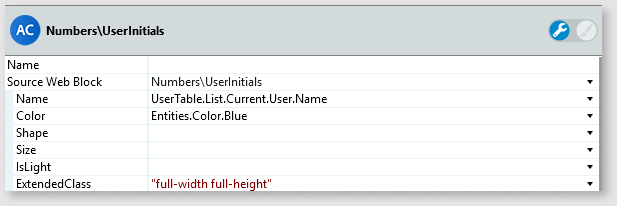
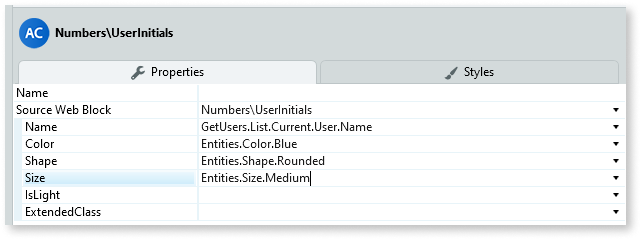
UI Pattern Updates

Changed region(s): [[0.0, 0.0, 1.0, 1.0], [0.893, 0.0874, 0.9238, 0.2039]]

diff --git a/src/develop/ui/patterns/web/numbers/userinitials.md b/src/develop/ui/patterns/web/numbers/userinitials.md
@@ -11,36 +11,66 @@ You can use the User Initials UI Pattern to display a user’s initials or their
 
 **How to use the User Initials UI Pattern**
 
+The User Initials UI Pattern usually displays dynamic information. In most cases, prior to using this pattern, you will need [to retrieve or update the Data](../../../../../develop/data/intro.md) that contains the information you want to display onscreen. You do this by using an [Action](../../../../../develop/logic/action-web.md). 
+
+The following example demonstrates how you can display the initials of the registered users on your platform.
+
 1. In Service Studio, in the Toolbox, search for `User Initials`. 
 
     The User Initials widget is displayed.
 
     ![](<images/userinitials-image-11.png>)
 
-1. From the Toolbox, drag the User Initials widget onto your application’s screen.
-   
-  
-1. On the **Properties** tab, set the relevant properties, for example, color, size, and shape. 
+1. From the Toolbox, drag the User Initials widget into the Main Content area of your application's screen.
 
-    ![](<images/userinitials-image-10.png>)
+     ![](<images/userinitials-image-12.png>)
+
+1. From the Element tree, create a Preparation action by right-clicking on your screen, and from the drop-down, select **Add Preparation**.
     
- 
-After following these steps and publishing the module, you can test the pattern in your app.
+    This Preparation action executes logic that fetches the data before the screen is displayed.
+
+     ![](<images/userinitials-image-13.png>)
+
+1. Select the **Data** tab, and from the Entities tree, navigate to the **User** entity and drag it onto the Preparation action.
+
+    ![](<images/userinitials-image-14.png>)
+
+    This creates an [aggregate](https://success.outsystems.com/Documentation/11/Reference/OutSystems_Language/Data/Handling_Data/Queries/Aggregate) that retrieves all of the users on your platform.
+       
+1. To reopen your screen, select the **Interface** tab, and double-click on your screen.
+
+1. Select the User Initials widget, and on the **Properties** tab, from the **Name** drop-down, select **Expression Editor**.
+
+1. In the Expression Editor, enter the following expression and click **Done**.
+
+    ``GetUsers.List.Current.User.Name``
+
+    Note: You can also add the expression by navigating through the Expression Editor's **Scope** tree and double-clicking on the **Name** output parameter. 
+
+    ![](<images/userinitials-image-15.png>)
+
+   The **Name** property is now set to display the Name property of the Aggregate you added to the Preparation action, which gets the names of the registered users on your platform and displays them in the badge.
+
+1. On the **Properties** tab, you can also customize the badge's look and feel by setting any of the optional properties, for example, the color, shape, and size. The following example displays a blue, medium-sized, circle badge.  
+
+    ![](<images/userinitials-image-10.png>)  
+
+After following these steps and publishing the module, you can test the pattern in your app.   
+   
 
 ## Properties
 
-| **Property** |  **Description** |  **Usage** |
-|---|---|---|
-| Name (Text): Optional  |  The username used in the pattern. | 
-| Color (Color Identifier): Optional  |  Badge color. | 
-| Shape (Shape Identifier): Optional|  Badge shape. | 
-| Size (Size Identifier): Optional  |  Badge size. | |
-| IsLight (Boolean): Optional | If set to True, the lightest color version is applied to the background. If set to False, the darker color version is applied. |
-| ExtendedClass (Text): Optional  |  Add custom style classes to the block. |
+| **Property** |  **Description** |
+|---|---|
+| Name (Text): Optional  |  The initials that appear inside the badge. Set this to a Data source that contains the value that the badge will display. Common use cases include displaying a value contained in a Variable or the result of an Aggregate (for instance, querying a 'Messages' table for the current user to return the count of new messages). <p>Examples <ul><li>_Blank_ - displays the initials JJ (default value)</li><li>_VariableName_ - displays the value that the variable "VariableName" holds at that time </li><li>_ExampleAggregate.Name_ - displays the names contained in the records returned by the "ExampleAggregate" aggregate execution</li></ul></p> | 
+| Color (Color Identifier): Optional  | Set the badge color. Red, orange, yellow, lime, green, blue, violet, and pink are just some of predefined colors available for the badge. <p>Examples <ul><li>_Blank_ - displays the badge in the color you chose when creating the app (default value)</li><li>_Entities.Color.Red_ - displays a red badge</li></ul></p></li></ul></p> | 
+| Shape (Shape Identifier): Optional| Set the badge shape. Rounded, soft rounded, and sharp are the predefined shapes available for the badge. <p>Examples <ul><li>_Blank_ - displays a rounded badge (default value)</li><li>_Entities.Shape.Sharp_ - displays a square badge</li></ul></p>| 
+| Size (Size Identifier): Optional  | Set the badge size. Small and medium are the predefined sizes available for the badge. <p>Examples <ul><li>_Blank_ - displays a medium sized badge (default value)</li><li>_Entities.Size.Small_ - displays a small sized badge</li></ul></p> | |
+| IsLight (Boolean): Optional  | Specify the badge's background color. <p>Examples <ul><li>_Blank_ - A darker hue of the color is applied to the badge and a lighter color to the text (default value)</li><li>_True_ - A brighter hue of the color is applied to the badge and a darker color to the text.</li><li>_False_ - A darker hue of the color is applied to the badge and a lighter color to the text</li></ul></p> |
+| ExtendedClass (Text): Optional |  Add custom style classes to the User Initials UI Pattern. You define your [custom style classes](../../../../../develop/ui/look-feel/css.md) in your application using CSS. <p>Examples <ul><li>_Blank_ - No custom styles are added (default value)</li><li>_''myclass''_ - adds the myclass style to the User Initials UI styles being applied.<li>_''myclass1'' ''myclass2''_ - adds the _myclass1_ and _myclass2_ styles to the User Initials UI styles being applied.</li></ul></p> | 
 
 
-
-
+<!---  Added to yml file
 ### See also
 * OutSystems UI Live Style Guide: [User Initials](https://outsystemsui.outsystems.com/WebStyleGuidePreview/UserInitials.aspx)
 * OutSystems UI Pattern Page: [User Avatar](https://outsystemsui.outsystems.com/OutSystemsUIWebsite/PatternDetail?PatternId=80)

diff --git a/src/develop/ui/patterns/web/navigation/breadcrumbs.md b/src/develop/ui/patterns/web/navigation/breadcrumbs.md
@@ -11,24 +11,28 @@ You can use the Breadcrumbs UI Pattern as a navigational aid that helps users ke
 
 **How to use the Breadcrumbs UI Pattern**
 
+The following example demonstrates how you can create a breadcrumb trail with four breadcrumb items. 
+
 1. In Service Studio, in the Toolbox, search for `Breadcrumbs`.
   
      The Breadcrumbs widget is displayed.
 
     ![](<images/breadcrumbs-image-8.png>)
 
-1. From the Toolbox, drag the Breadcrumbs widget onto your application's screen.
+1. From the Toolbox, drag the Breadcrumbs widget into the Main Content area of your application's screen.
 
-1. Drag the required number of Breadcrumb Item blocks into the Content placeholder.
+      ![](<images/breadcrumbs-image-9.png>)
+
+     By default, the Breadcrumbs widget contains three Breadcrumb Item widgets. Each Breadcrumb Item represents a location in the breadcrumb trail. You can add or delete Breadcrumb Items as required.
+
+1. From the Toolbox, drag another Breadcrumbs Item into your Breadcrumbs Pattern. 
+        ![](<images/breadcrumbs-image-10.png>)
+        
+1. In the Title placeholder, enter the breadcrumb title (in this example, More Details) and drag an Icon widget into the Icon placeholder.    
     
-    ![](<images/breadcrumbs-image-7.png>)
+    ![](<images/breadcrumbs-image-11.png>)
     
-    **Note**: Each Breadcrumb Item represents a different location in the breadcrumb trail.
-
-1. On the **Properties** tab, set the content in the placeholders, for example, titles, icons, and links to the relevant pages.
-
-    ![](<images/breadcrumbs-image-1.png>)
-
+1. So that the new Breadcrumb Item widget icon matches the others, select the Icon widget, and on the **Properties** tab, set the **Name** property to ``Entities.IconName.angle_right``.
 
 After following these steps and publishing the module, you can test the pattern in your app.
 
@@ -36,23 +40,17 @@ After following these steps and publishing the module, you can test the pattern 
 
 ### Breadcrumbs
 
-| **Property** |  **Description** |  **Usage** | 
-|---|---|---|
-| ExtendedClass (Text): Optional  |  Add custom style classes to the block. | 
+| **Property** |  **Description** |
+|---|---|
+| ExtendedClass (Text): Optional  | Add custom style classes to the Breadcrumbs UI Pattern. You define your [custom style classes](../../../../../develop/ui/look-feel/css.md) in your application using CSS. <p>Examples <ul><li>_Blank_ - No custom styles are added (default value)</li><li>_''myclass''_ - adds the myclass style to the Breadcrumbs UI styles being applied.<li>_''myclass1'' ''myclass2''_ - adds the _myclass1_ and _myclass2_ styles to the Breadcrumbs UI styles being applied.</li></ul></p> | 
 
 ### Breadcrumb Item
 
-| **Property** |  **Description** |  **Usage** | 
-|---|---|---|
-| ExtendedClass (Text): Optional  |  Add custom style classes to the block. |
+| **Property** |  **Description** |
+|---|---|
+| ExtendedClass (Text): Optional  |  Add custom style classes to the Breadcrumb Item UI Pattern. You define your [custom style classes](../../../../../develop/ui/look-feel/css.md) in your application using CSS. <p>Examples <ul><li>_Blank_ - No custom styles are added (default value)</li><li>_''myclass''_ - adds the myclass style to the Breadcrumb Item UI styles being applied.<li>_''myclass1'' ''myclass2''_ - adds the _myclass1_ and _myclass2_ styles to the Breadcrumb Item UI styles being applied.</li></ul></p> |
 
-
-## Additional notes
-
-The Line Separator property of the ListRecords widget should be set to **None**.
-
-![](<images/breadcrumbs-image-5.png>)
-
+<!---  Added to yml file
 ## See also
 
 * OutSystems UI Live Style Guide: [Breadcrumbs](https://outsystemsui.outsystems.com/WebStyleGuidePreview/Breadcrumbs.aspx)

diff --git a/src/develop/ui/patterns/web/navigation/sectionindex.md b/src/develop/ui/patterns/web/navigation/sectionindex.md
@@ -17,9 +17,9 @@ You can use the Section Index UI Pattern to organize the content of a screen, en
 
     ![](<images/sectionindex-image-6.png>)
 
-1. From the Toolbox, drag the Section Index widget onto your application’s screen.
+1. From the Toolbox, drag the Section Index widget into the Main Content area of your application's screen.
 
-     A link is automatically created to every section you have on the screen. The name of the link is based on the text you entered in the Title placeholder of each section.
+     A link is automatically created to every section you have on the screen. The name of the link is based on the text you entered in the **Title** placeholder of each section. 
 
     ![](<images/sectionindex-image-2.png>)
    
@@ -27,12 +27,12 @@ After following these steps and publishing the module, you can test the pattern 
 
 ## Properties
 
-| **Property** |  **Description** |  **Usage** | 
-|---|---|---|
-| IsSmooth (Boolean): Optional  |  If IsSmooth is True, the navigation to the destination is animated. If set to false, navigation is instant. |
-| IsFixed (Text): Optional  |  If Fixed is true, the Section Index is always in the same position on the screen. If Fixed is false, it scrolls with the page content. |
+| **Property** |  **Description** | 
+|---|---|
+| IsSmooth (Boolean): Optional  |  If set to True, the navigation to the destination is animated. If set to False (default), the navigation is instant. |
+| IsFixed (Text): Optional  |  If set to True (default), the Section Index Pattern is always in the same position on the screen. If set to False, the Section Index Pattern scrolls with the page content. |
 | TopPosition (Integer): Optional  |  Distance in pixels from the top of the page to the first item in the section index.  |
-| ExtendedClass (Text): Optional |  Add custom style classes to the block. |
+| ExtendedClass (Text): Optional | Add custom style classes to the Section Index UI Pattern. You define your [custom style classes](../../../../../develop/ui/look-feel/css.md) in your application using CSS. <p>Examples <ul><li>_Blank_ - No custom styles are added (default value)</li><li>_''myclass''_ - adds the myclass style to the Section Index UI styles being applied.<li>_''myclass1'' ''myclass2''_ - adds the _myclass1_ and _myclass2_ styles to the Section Index UI styles being applied.</li></ul></p> |
   
 
 
@@ -48,6 +48,7 @@ In Internet Explorer, `position: fixed` is used instead of `position sticky` as 
 
 This UI pattern only works with the Section Pattern in the same screen.
 
+<!---  Added to yml file
 ## See also
 * OutSystems UI Live Style Guide: [Section index](https://outsystemsui.outsystems.com/WebStyleGuidePreview/SectionIndex.aspx)
 * OutSystems UI Pattern Page: [Section Index](https://outsystemsui.outsystems.com/OutSystemsUIWebsite/PatternDetail?PatternId=65)

diff --git a/src/develop/ui/patterns/web/utilities/animate.md b/src/develop/ui/patterns/web/utilities/animate.md
@@ -18,11 +18,11 @@ You can use the Animate UI Pattern to create animations within your app. This UI
     ![](<images/animate-image-11.png>)
 
 
-1. From the Toolbox, drag the Animate widget onto your application's screen.     
+1. From the Toolbox, drag the Animate widget into the Main Content area of your application's screen.
+    
+    [](<images/animate-image-1.png>)
 
-    ![](<images/animate-image-1.png>)
-
-1. On the **Properties** tab, set the relevant properties.
+1. On the **Properties** tab, set the relevant properties, for example, where you want the animation to enter and leave the screen.
 
     ![](<images/animate-image-2.png>)
 
@@ -30,15 +30,16 @@ After following these steps and publishing the module, you can test the pattern 
 
 ## Properties
 
-| **Property** |  **Description** |  **Usage** | 
-|---|---|---|
-| EnterAnimation (EnterAnimation Identifier): Optional | Set how the animation enters the screen.| 
-| LeaveAnimation (LeaveAnimation Identifier): Optional | Set how the animation leaves the screen.|
-| Speed (Speed Identifier): Optional | Animation duration. | 
-| Delay (Integer): Optional | Time to wait before animation starts (in miliseconds). | 
-| ExtendedClass (Text): Optional  |  Add custom style classes to the block. | 
+| **Property** |  **Description** |
+|---|---|
+| EnterAnimation (EnterAnimation Identifier): Optional | Set how the animation enters the screen. <p>Examples <ul><li>_Entities.EnterAnimation.EnterLeft_ - Enters from the left of the screen</li><li>_Entities.EnterAnimation.EnterTop_ - Enters from the top of the screen</li></ul></p>| 
+| LeaveAnimation (LeaveAnimation Identifier): Optional | Set how the animation leaves the screen. <p>Examples <ul><li>_Entities.LeaveAnimation.LeaveBottom_ - Leaves from the bottom of the screen</li><li>_Entities.LeaveAnimation.LeaveRight_ - Leaves from the right of the screen</li></ul></p>|
+| Speed (Speed Identifier): Optional | Animation duration. Fast, normal, and slow are the predefined speeds available for the animation.| 
+| Delay (Integer): Optional | Time to wait before animation starts (in milliseconds). The default value is 0. | 
+| ExtendedClass (Text): Optional  |   Add custom style classes to the Animate UI Pattern. You define your [custom style classes](../../../../../develop/ui/look-feel/css.md) in your application using CSS. <p>Examples <ul><li>_Blank_ - No custom styles are added (default value)</li><li>_''myclass''_ - adds the myclass style to the Animate UI styles being applied.<li>_''myclass1'' ''myclass2''_ - adds the _myclass1_ and _myclass2_ styles to the Breadcrumbs UI styles being applied.</li></ul></p> | 
 
 
+<!---  Added to yml file
 
 ## See also
 

diff --git a/src/develop/ui/patterns/web/numbers/badge.md b/src/develop/ui/patterns/web/numbers/badge.md
@@ -62,7 +62,7 @@ After following these steps and publishing the module, you can test the pattern 
 
 | **Property** |  **Description** |
 |---|---|
-| Number (Integer): Optional  | Number that appears inside the badge. Set this to a Data source that contains the value that the Badge will display. Common use cases include displaying a value contained in a Variable or the result of an Aggregate (for instance, querying a 'Messages' table for the current user to return the count of new messages). <p>Examples <ul><li>_Blank_ - displays the number 8 (default value)</li><li>_22_ - displays the number 22</li><li>_VariableName_ - displays the value that the variable ''VariableName'' holds at that time </li><li>_ExampleAggregate.Count_ - displays the number of records returned by the ''ExampleAggregate'' aggregate execution</li></ul></p>| 
+| Number (Integer): Optional  | Number that appears inside the badge. Set this to a Data source that contains the value that the Badge will display. Common use cases include displaying a value contained in a Variable or the result of an Aggregate (for instance, querying a 'Messages' table for the current user to return the count of new messages). <p>Examples <ul><li>_Blank_ - displays the number 8 (default value)</li><li>_22_ - displays the number 22</li><li>_VariableName_ - displays the value that the variable "VariableName" holds at that time </li><li>_ExampleAggregate.Count_ - displays the number of records returned by the "ExampleAggregate" aggregate execution</li></ul></p>| 
 | Color (Color Identifier): Optional  | Set the badge color. Red, orange, yellow, lime, green, blue, violet, and pink are just some of predefined colors available for the badge. <p>Examples <ul><li>_Blank_ - displays the badge in the color you chose when creating the app (default value)</li><li>_Entities.Color.Red_ - displays a red badge</li></ul></p> | 
 | Shape (Shape Identifier): Optional  | Set the badge shape. Rounded, soft rounded, and sharp are the predefined shapes available for the badge. <p>Examples <ul><li>_Blank_ - displays a rounded badge (default value)</li><li>_Entities.Shape.Sharp_ - displays a square badge</li></ul></p>| 
 | Size (Size Identifier): Optional  | Set the badge size. Small and medium are the predefined sizes available for the badge. <p>Examples <ul><li>_Blank_ - displays a medium sized badge (default value)</li><li>_Entities.Size.Small_ - displays a small sized badge</li></ul></p> |

diff --git a/src/develop/ui/patterns/web/utilities/stackedicon.md b/src/develop/ui/patterns/web/utilities/stackedicon.md
@@ -36,7 +36,7 @@ After following these steps and publishing the module, you can test the pattern 
 | IconBack (IconName Identifier): Optional | The icon that displays behind the icon. Some of the predefined values include:<p><ul><li>Circle</li><li>Square</li><li>Heart</li></ul></p><p>Examples <ul><li>_Blank_ - Displays a ban icon</li><li>_Entities.IconName.birthday_cake_ - Displays a birthday cake icon</li></ul></p> |
 | IconFrontColor (Color Identifier): Optional | Front icon color. Red, orange, yellow, lime, green, blue, violet, and pink are just some of predefined colors available for the badge. <p>Examples <ul><li>_Blank_ - Displays a black (Neutral10) icon (default value)</li><li>_Entities.Color.Red_ - Displays a red icon</li></ul></p>  | 
 | IconBackColor (Color Identifier): Optional | Back Icon color. Red, orange, yellow, lime, green, blue, violet, and pink are just some of predefined colors available for the badge. <p>Examples <ul><li>_Blank_ - displays a black (Neutral10) icon (default value)</li><li>_Entities.Color.Green_ - Displays a green icon</li></ul></p> |
-| IconSize (IconSize Identifier): Optional| Sets the icon size. The predefined values are:<p><ul><li>Size_2x</li><li>Size_3x</li><li>Size_4x</li><li>Size_5x</li><li>Percent_33</li></ul></p><p>Examples <ul><li>_Entities.IconSize.Size_2x_</li><li>_Entities.IconSize.Size_Percent_33_</li></ul></p>  |
+| IconSize (IconSize Identifier): Optional| Sets the icon size. The predefined values are:<p><ul><li>Size_2x</li><li>Size_3x</li><li>Size_4x</li><li>Size_5x</li><li>Percent_33</li></ul></p><p>Examples <ul><li>_Entities.IconSize.Size_2x_ - makes the font two times larger relative to the icon container</li><li>_Entities.IconSize.Size_Percent_33_ - Makes the font 33% larger relative to the icon container</li></ul></p>  |
 | InvertSize (Boolean): Optional | If set to True, the icon sizes are swapped. |
 | ExtendedClass (Text): Optional | Add custom style classes to the Separator UI Pattern. You define your [custom style classes](../../../../../develop/ui/look-feel/css.md) in your application using CSS. <p>Examples <ul><li>_Blank_ - No custom styles are added (default value)</li><li>_''myclass''_ - adds the myclass style to the Stacked Icon UI styles being applied.<li>_''myclass1'' ''myclass2''_ - adds the _myclass1_ and _myclass2_ styles to the Stacked Icon UI styles being applied. | 
 

diff --git a/src/develop/ui/patterns/web/responsive/responsivetable.md b/src/develop/ui/patterns/web/responsive/responsivetable.md
@@ -9,7 +9,9 @@ You can use the Responsive Table UI Pattern to display information in a logical 
 
 **How to use the Responsive Table UI Pattern**  
 
-The following example demonstrates how you can display the number of registered users on your platform.
+The Responsive Table UI Pattern usually displays dynamic information. In most cases, prior to using this pattern, you will need [to retrieve or update the Data](../../../../../develop/data/intro.md) that contains the information you want to display onscreen. You do this by using an [Action](../../../../../develop/logic/action-web.md). 
+
+The following example demonstrates how you can display the registered users on your platform.
 
 1. In Service Studio, in the Toolbox, search for `Responsive Table`. 
 
@@ -17,18 +19,14 @@ The following example demonstrates how you can display the number of registered 
 
     ![](<images/responsivetable-image-8.png>)
 
-1. From the Toolbox, drag the Responsive Table widget  into the Main Content area of your application's screen.
+1. From the Toolbox, drag the Responsive Table widget into the Main Content area of your application's screen.
 
     ![](<images/responsivetable-image-1.png>)
 
 1. Select the **Data** tab, and from the Entities tree, navigate to the **User** entity and drag it into the Responsive Table placeholder.
     
    ![](<images/responsivetable-image-10.png>)
-
-This creates an [aggregate](https://success.outsystems.com/Documentation/11/Reference/OutSystems_Language/Data/Handling_Data/Queries/Aggregate) that retrieves all of the users on your platform.
-       
-
-       
+      
 1. To reopen your screen, select the **Interface** tab, and double-click on your screen.
 
 1. On the **Properties** tab, set the **ResponseBehavior** property. In this example, the property is set so the table header stays fixed and the user can scroll through the rows.

diff --git a/src/ref/ui-patterns/web/breadcrumbs.md b/src/ref/ui-patterns/web/breadcrumbs.md
@@ -26,6 +26,12 @@ summary:
 
     ![](<images/breadcrumbs-image-4.png>)
 
+## Additional notes
+
+The Line Separator property of the ListRecords widget should be set to **None**.
+
+![](<images/breadcrumbs-image-5.png>)
+
  ## See also
 
 * OutSystems UI Pattern Documentation: [Breadcrumbs](https://success.outsystems.com/Documentation/11/Developing_an_Application/Design_UI/Patterns/Using_Web_Patterns/Navigation/Breadcrumbs)

diff --git a/src/develop/ui/patterns/web/utilities/separator.md b/src/develop/ui/patterns/web/utilities/separator.md
@@ -20,7 +20,7 @@ You can use the Separator UI Pattern to separate content clearly and ease visual
   1. From the Toolbox, drag the Separator widget into the Main Content area of your application's screen.
 
       ![](<images/separator-image-6.png>)
-  
+
 After following these steps and publishing the module, you can test the pattern in your app.
 
 ## Properties
